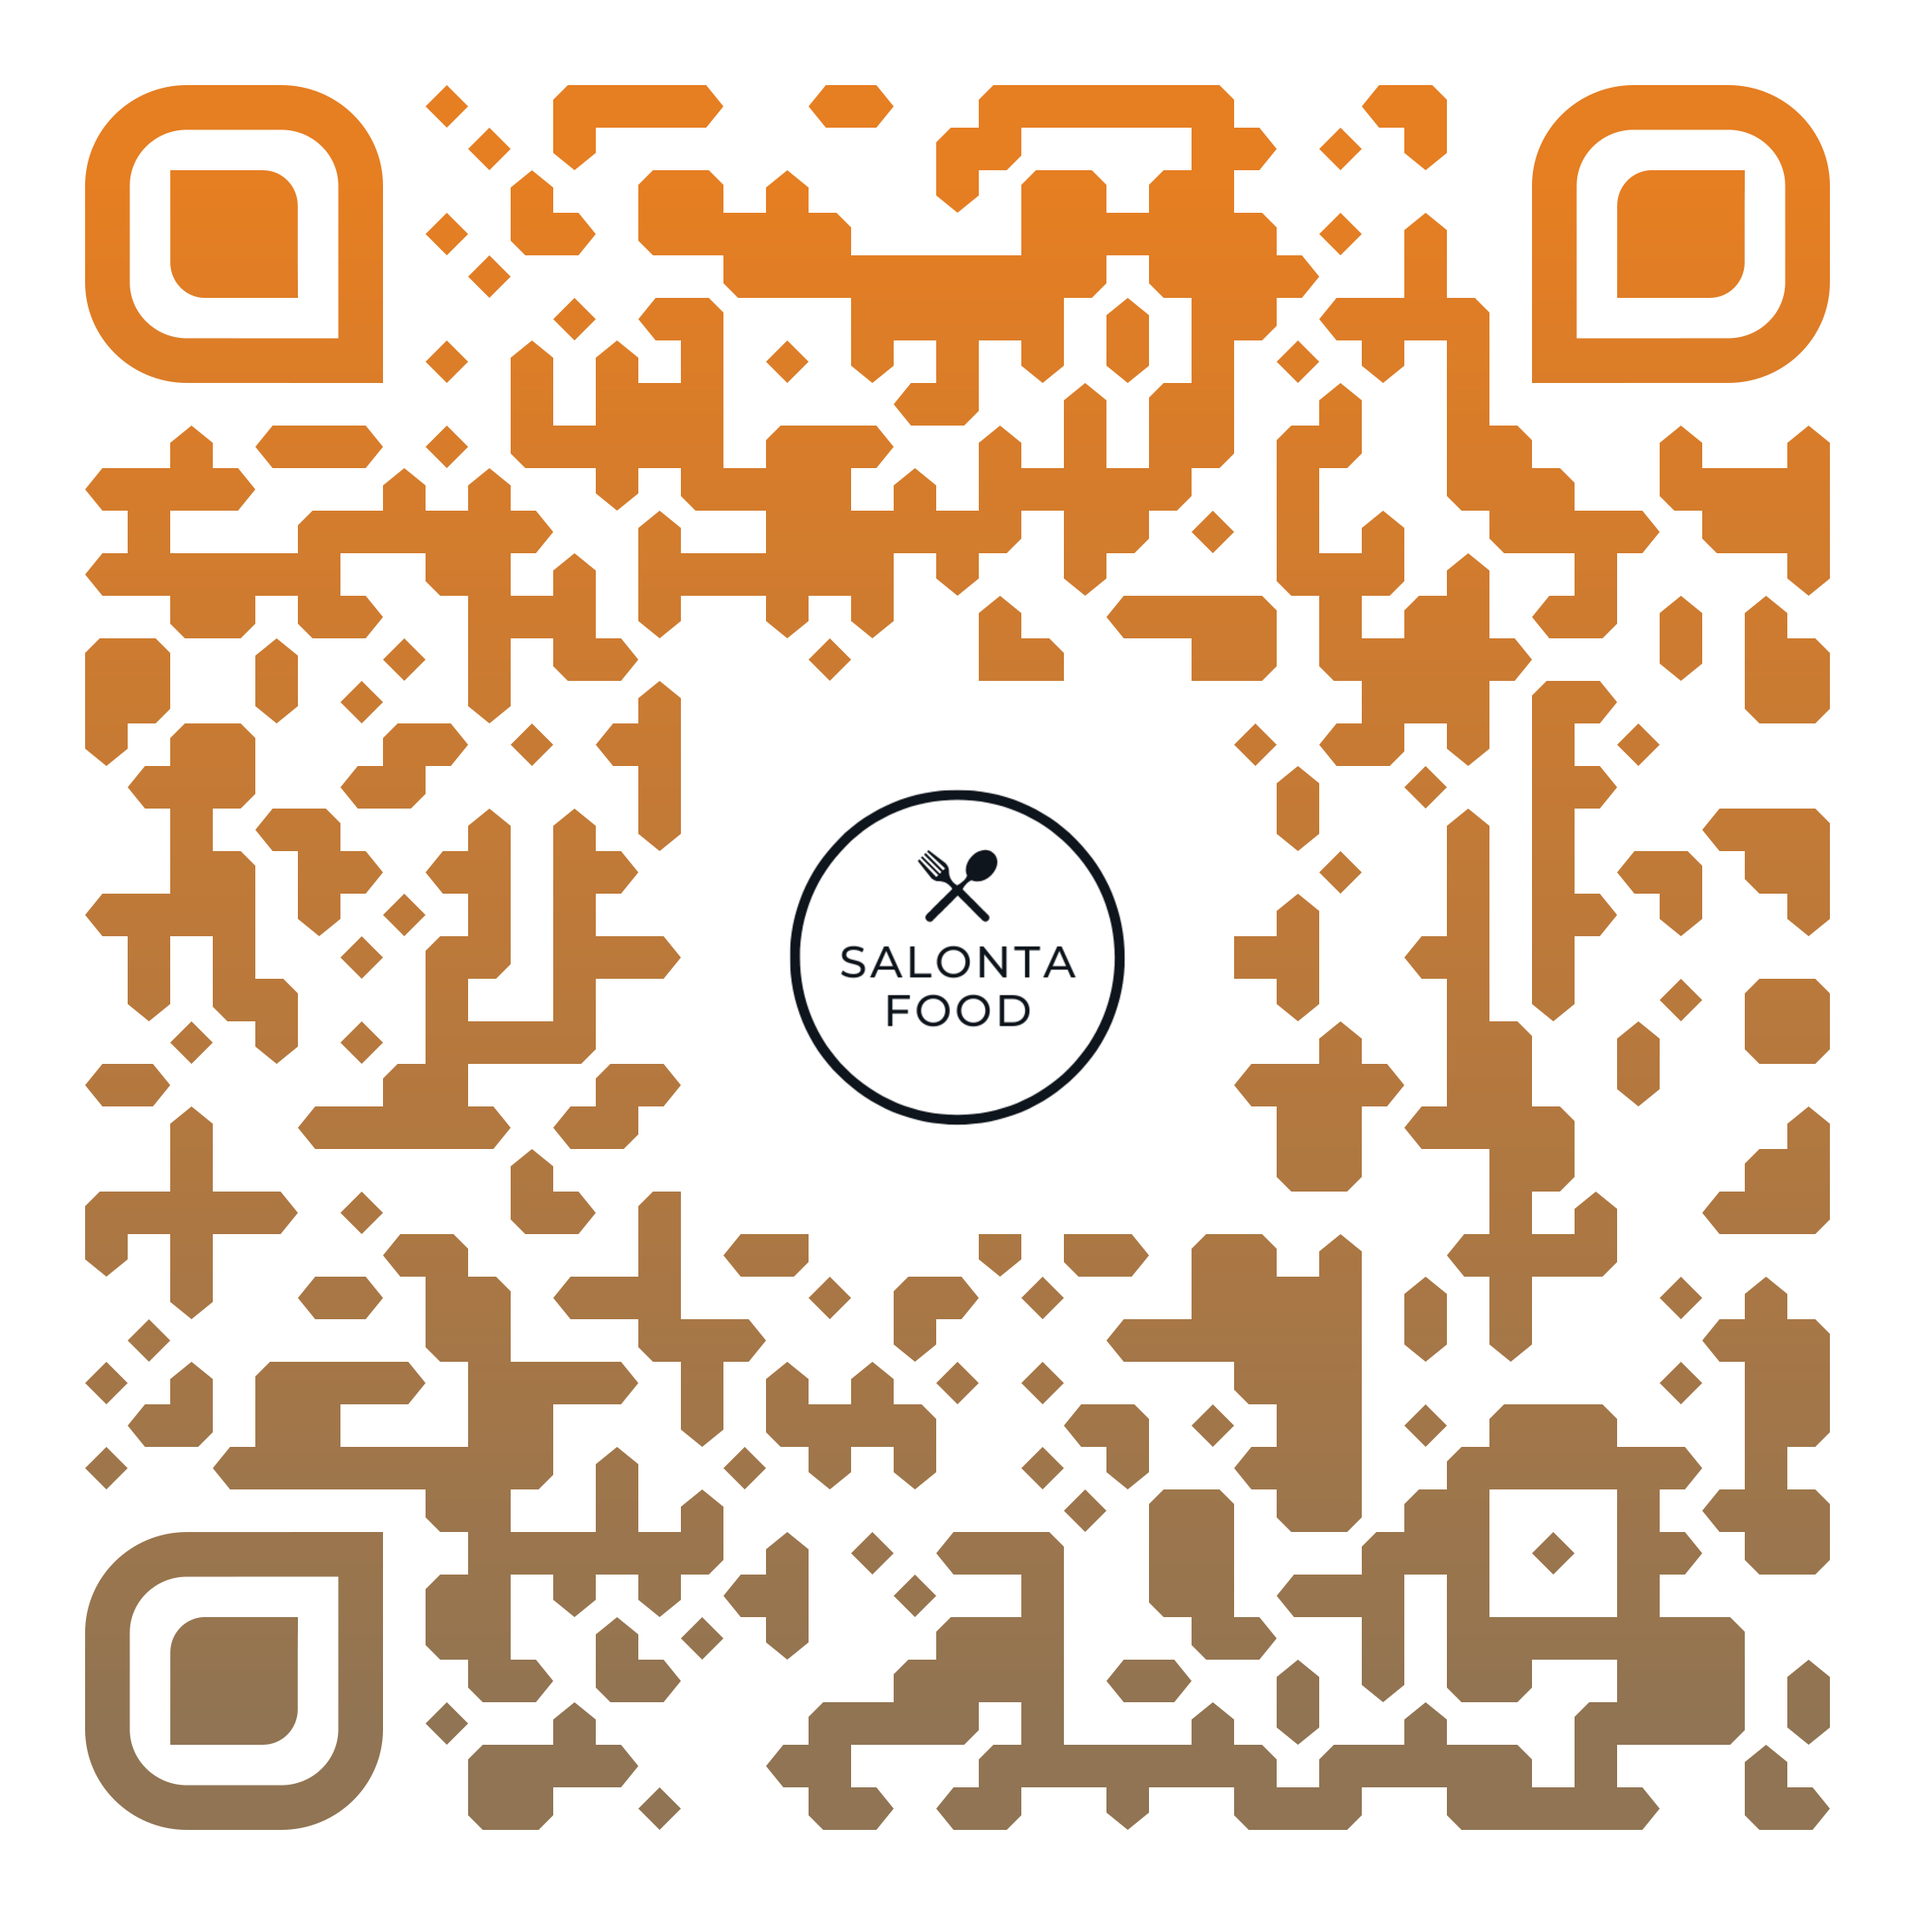
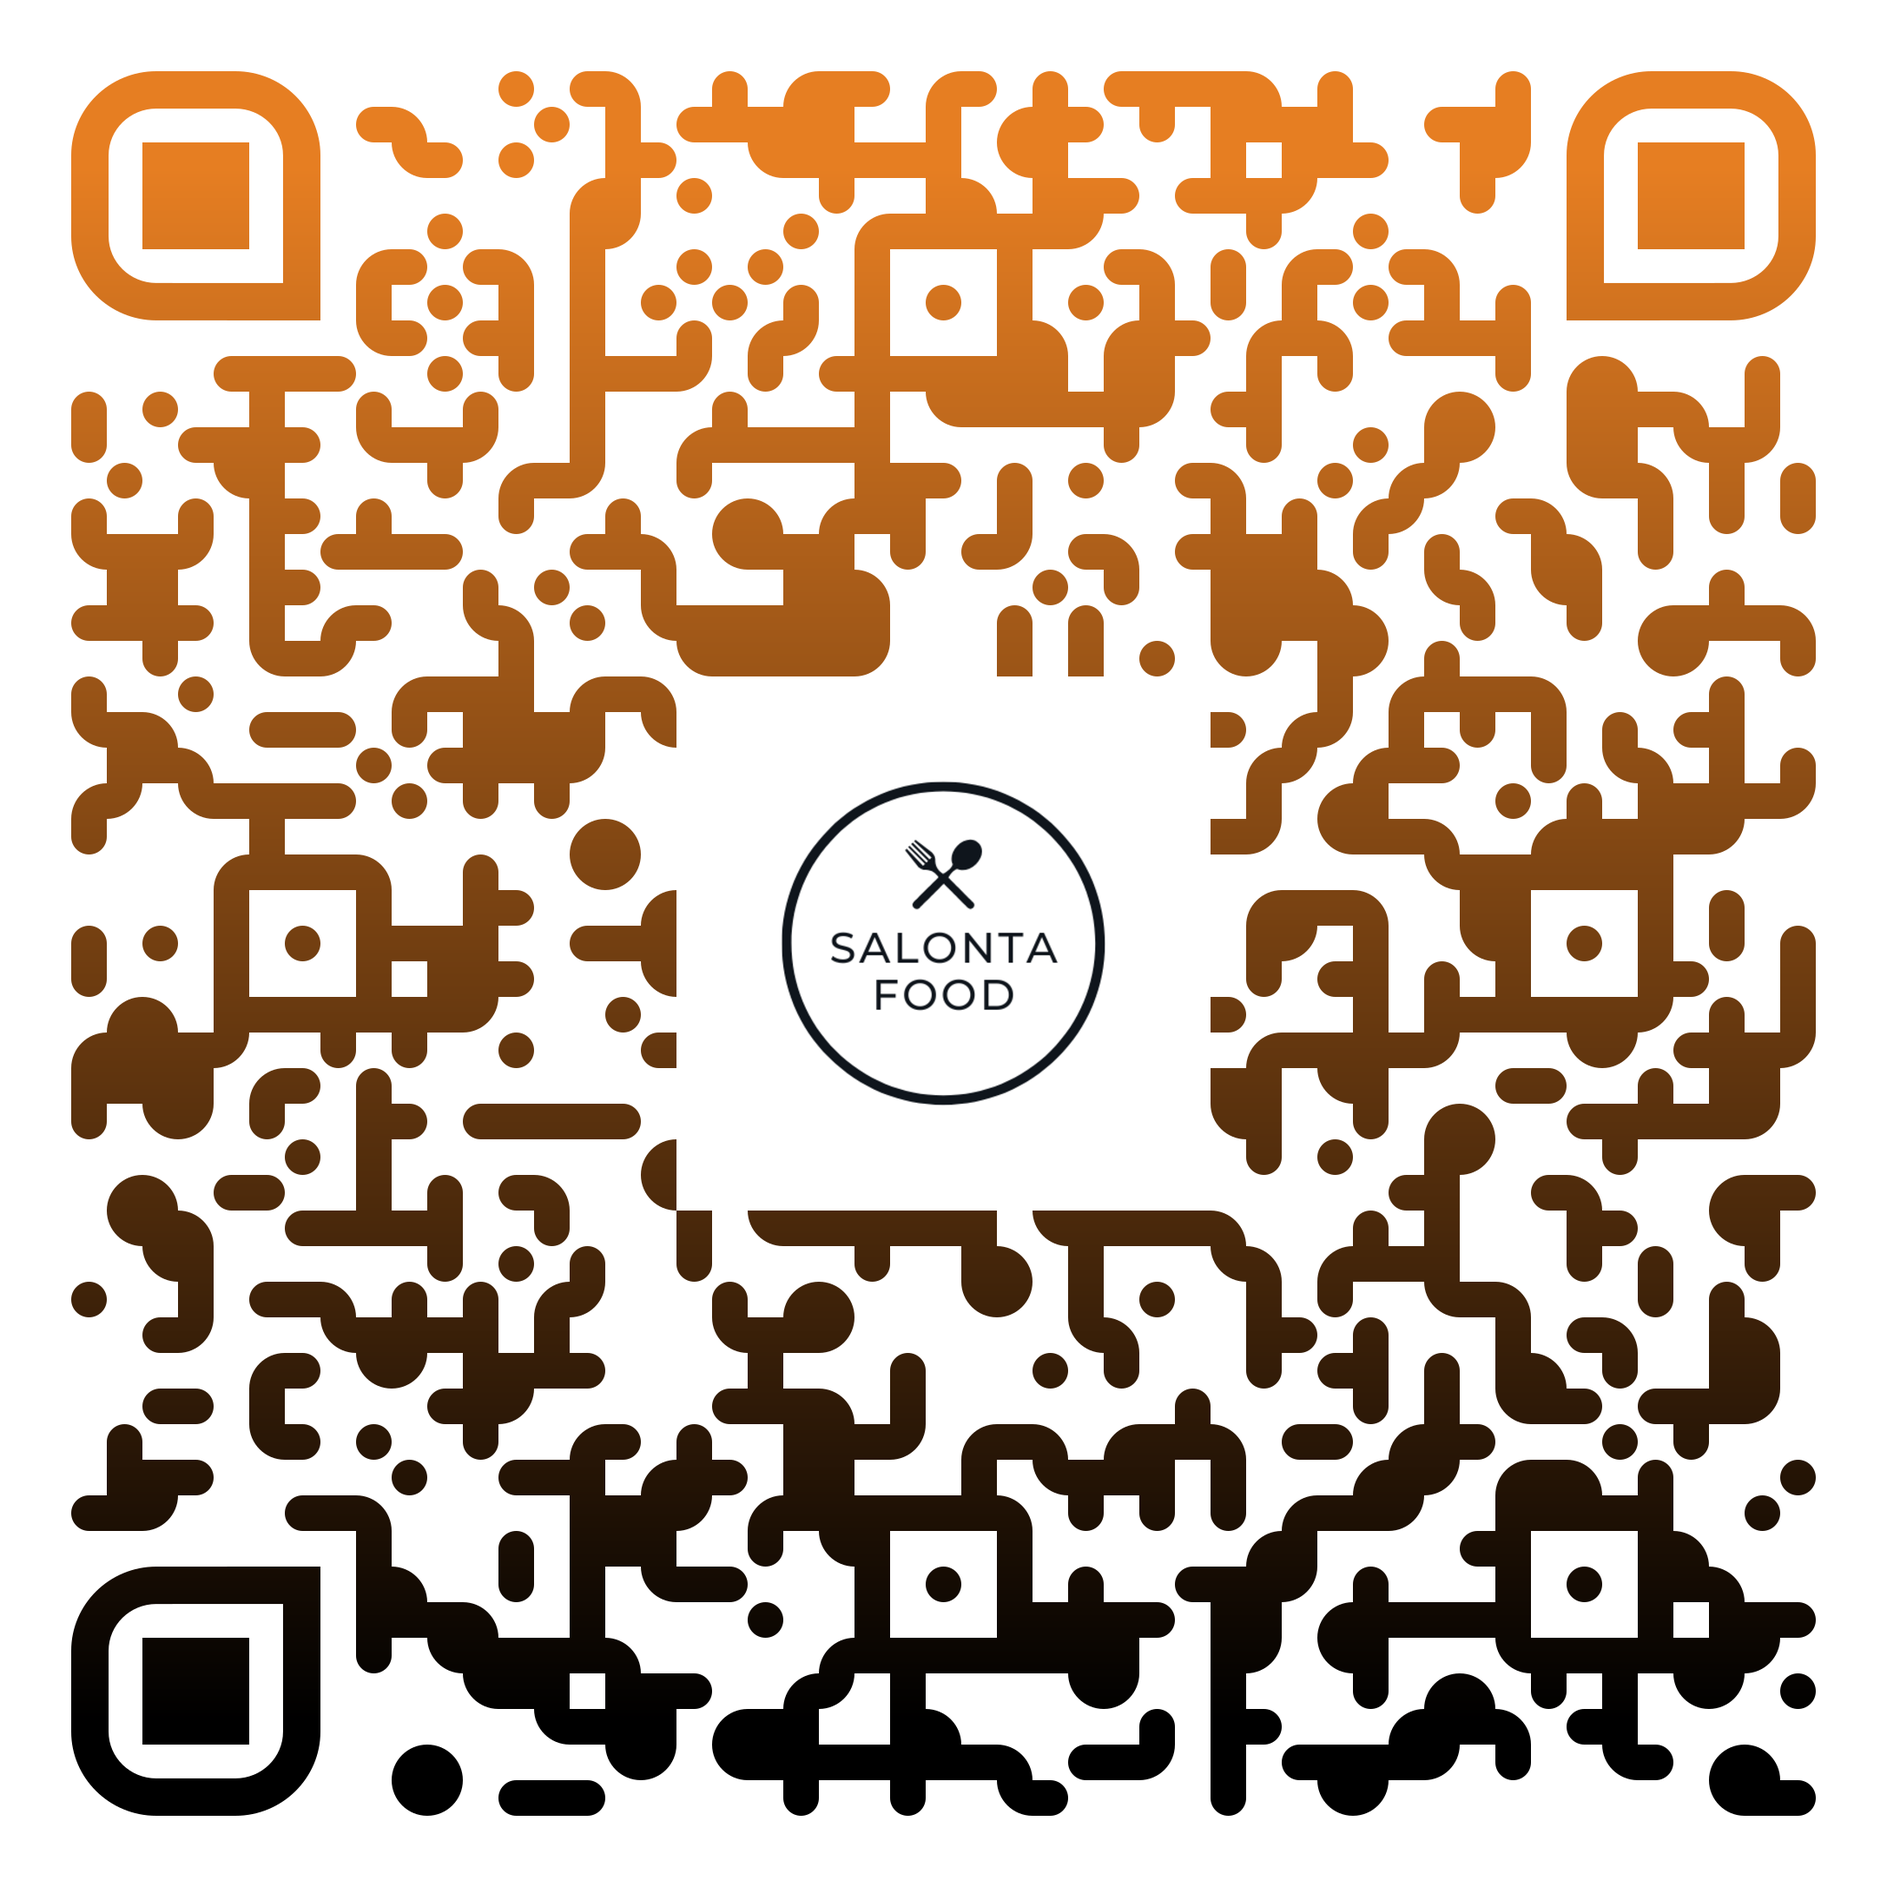
Android Update

diff --git a/index.html b/index.html
@@ -15,12 +15,12 @@
       <div>
         <h3>Scan for iOS</h3>
         <img src="assets/qr-ios.png" alt="QR Code iOS" />
-        <a class="btn" href="https://apps.apple.com">Download on App Store</a>
+        <a class="btn" href="">Coming Soon</a>
       </div>
       <div>
         <h3>Scan for Android</h3>
         <img src="assets/qr-android.png" alt="QR Code Android" />
-        <a class="btn" href="https://play.google.com">Download on Google Play</a>
+        <a class="btn" href="https://play.google.com/store/apps/details?id=com.salontafood.app">Download on Google Play</a>
       </div>
     </div>
   </div>

diff --git a/salontafood.css b/salontafood.css
@@ -26,6 +26,9 @@ h1 {
   padding: 1rem;
   border-radius: 10px;
   box-shadow: 0 0 10px rgba(0,0,0,0.1);
+  display: flex;
+  flex-direction: column;
+  align-items: center; /* ensures image and text are centered */
 }
 
 img {
